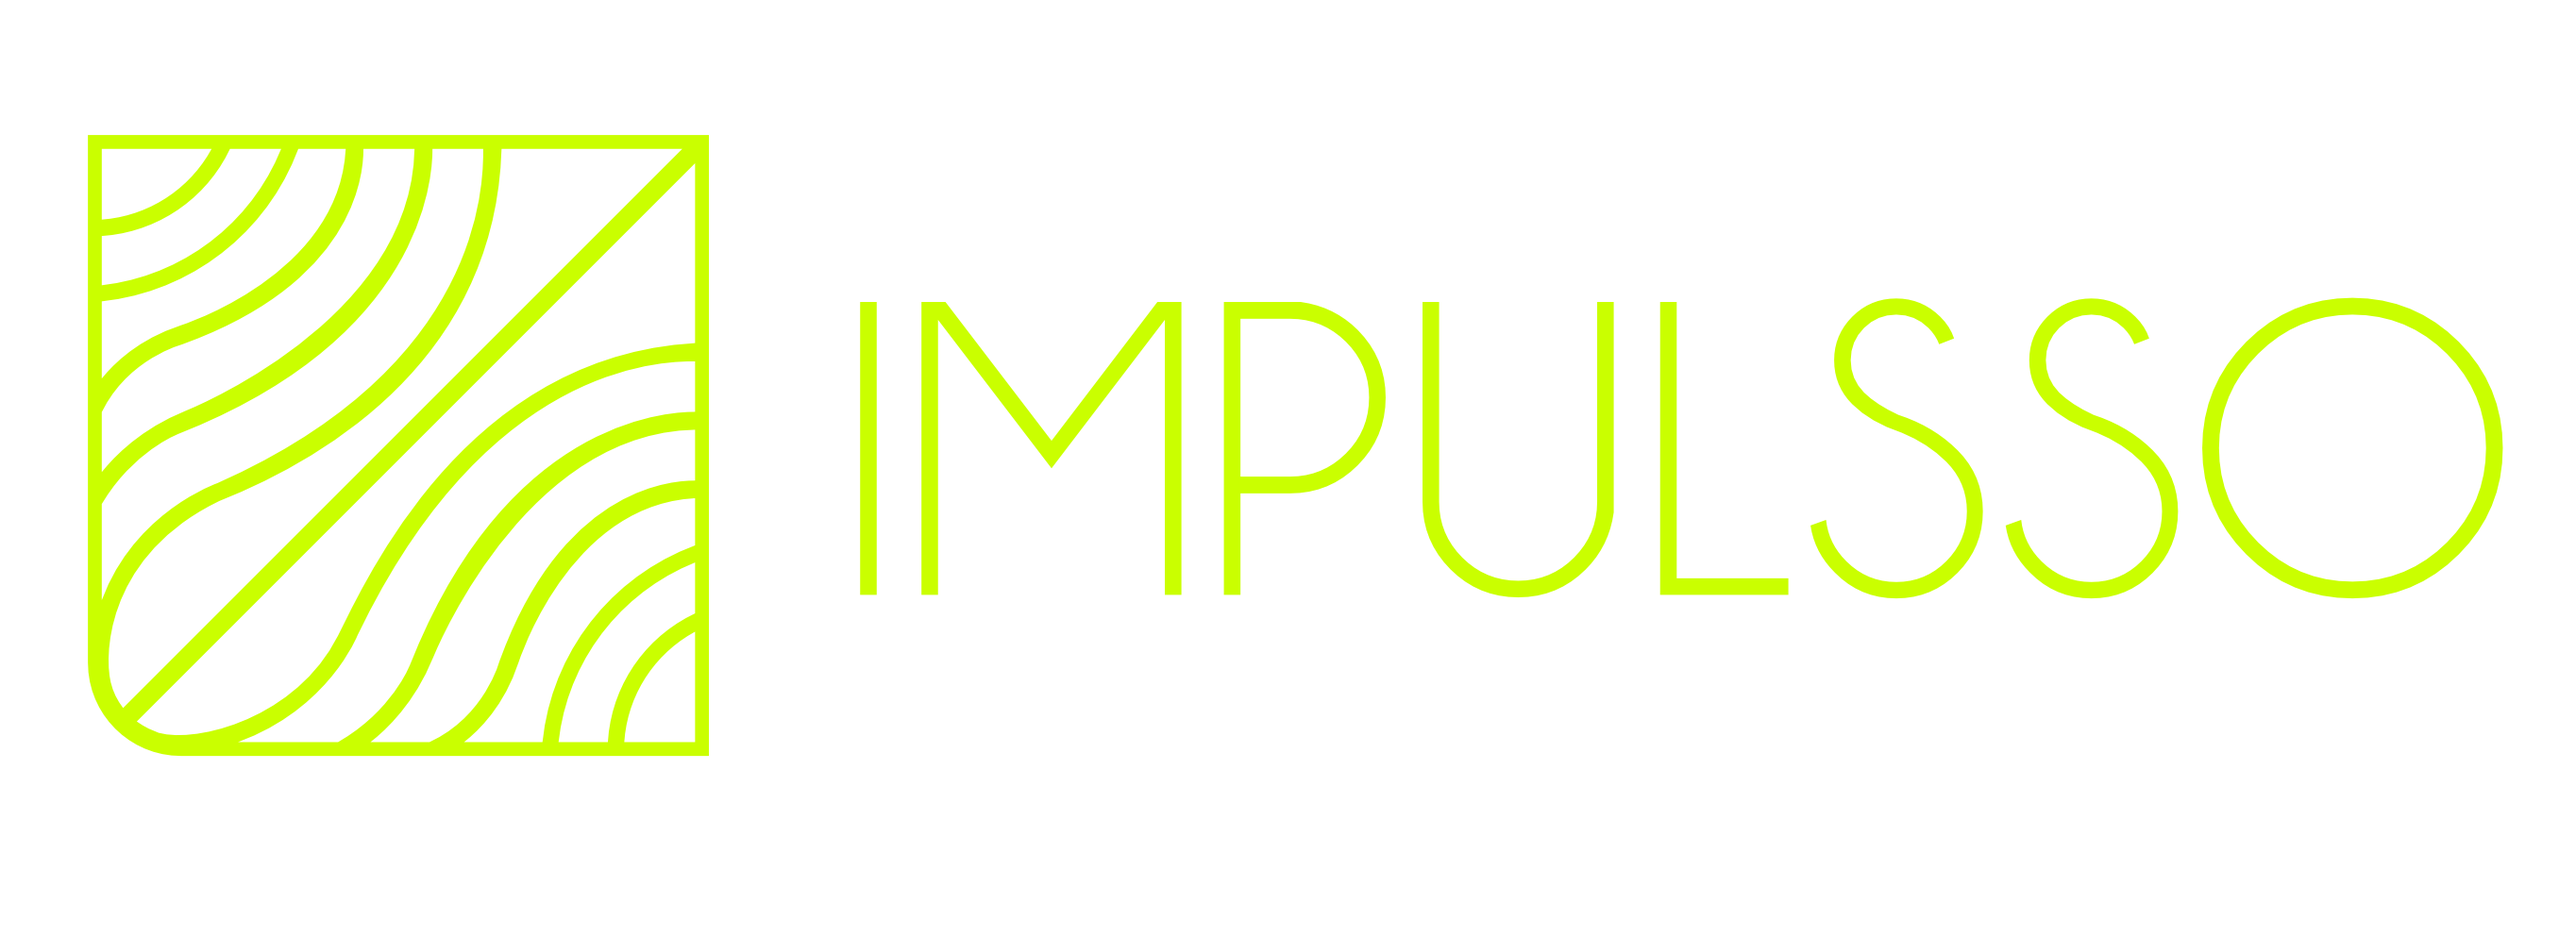
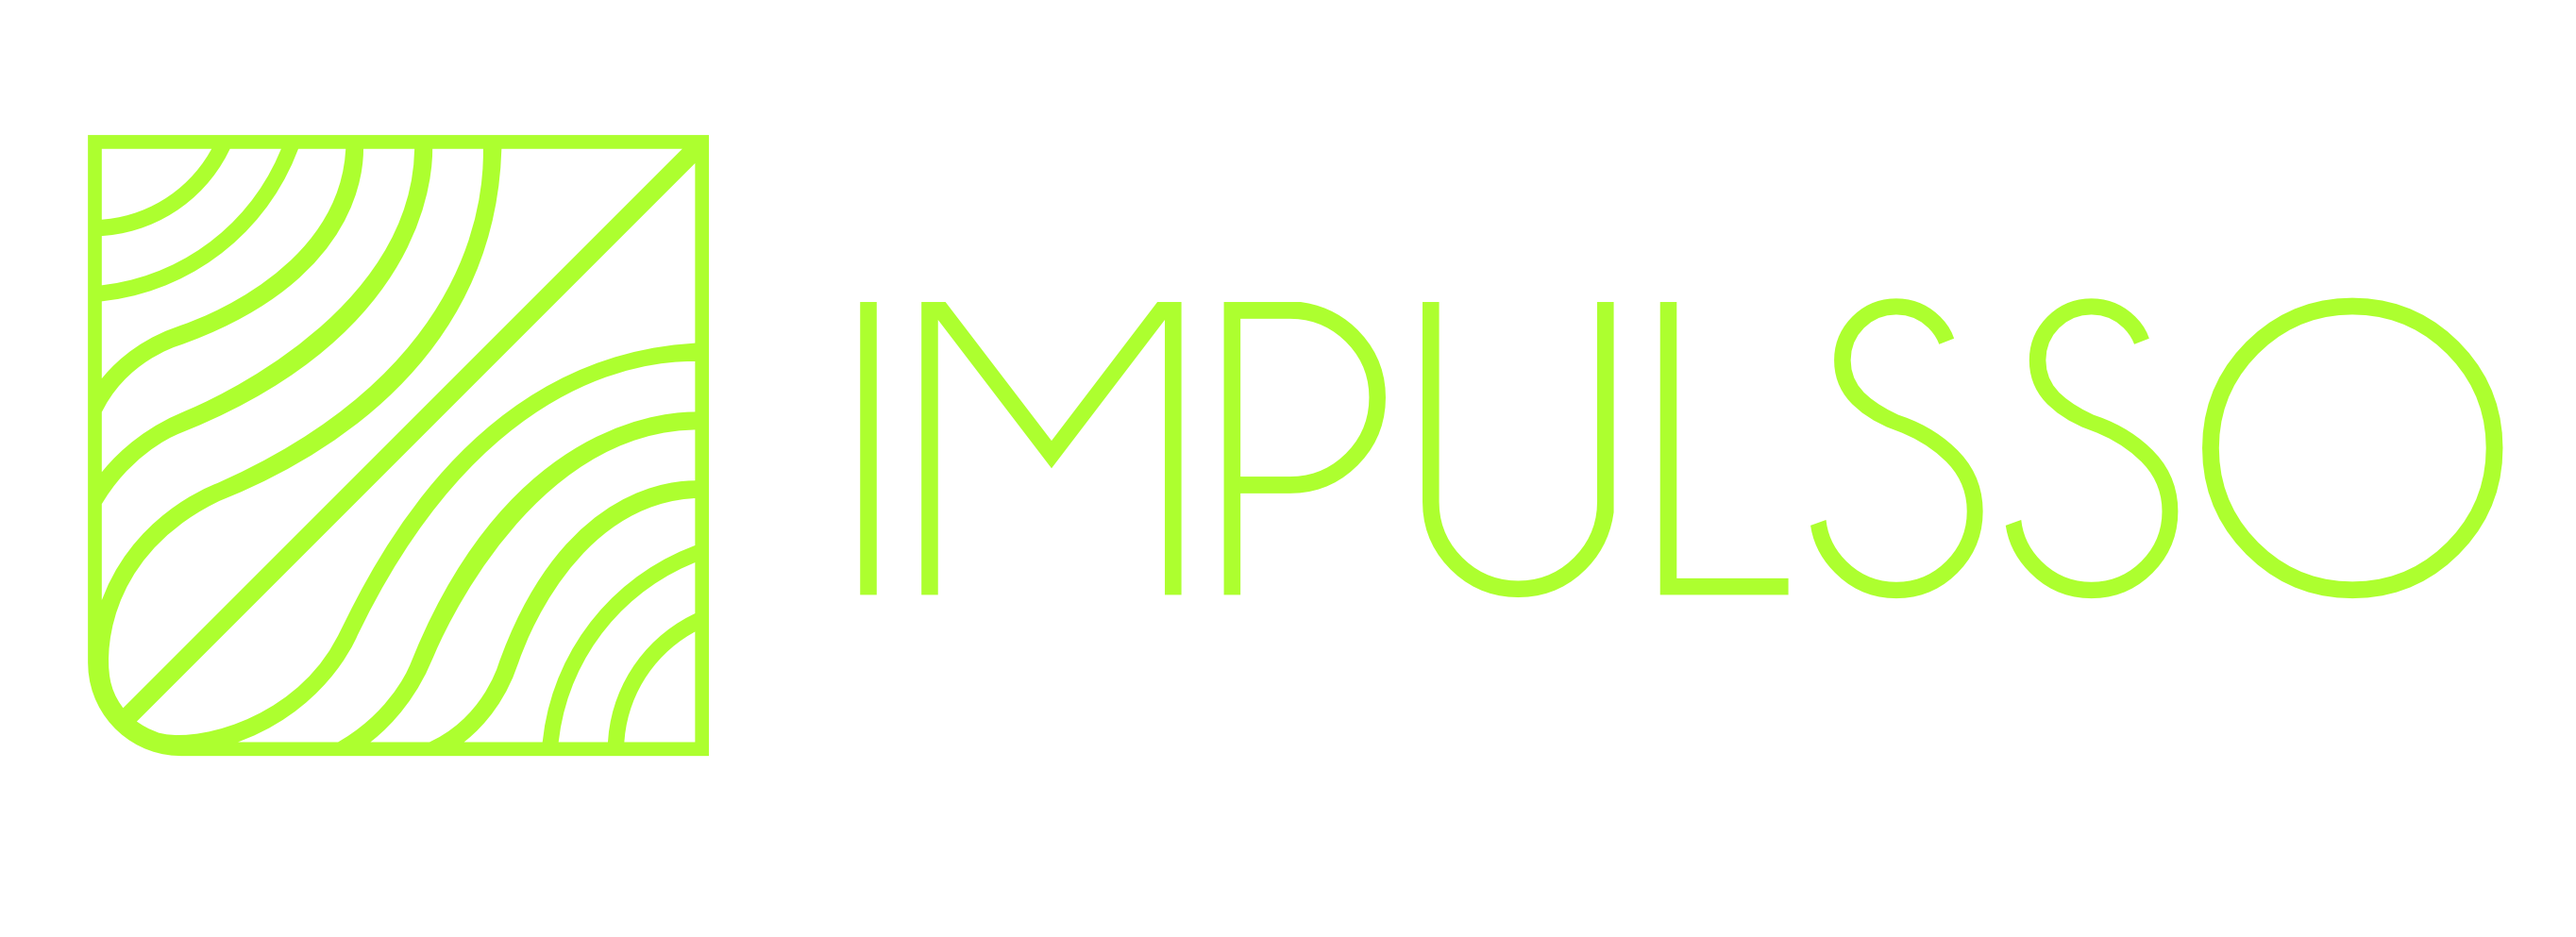
UPDATE-18jul23

diff --git a/index.html b/index.html
@@ -38,7 +38,7 @@
     </header>
 
 
-    <div class="row col-12 mx-auto mt-4">
+    <div class="row col-12 mx-auto">
         <aside class="col-12 col-md-3 WhatDoNWho"> 
             
             <div>
@@ -59,6 +59,27 @@
             </div>
         </section>
     </div>
+
+    <footer class="row d-flex footer-space mb-4 rounded-bottom-5 align-items-center">
+        <!-- Contact Links -->
+        <div class="col-12 col-md-4">
+            <ul class="text-white">
+                <li>Aviso de privacidad</li>
+                <li>Terminos y condiciones de uso</li>
+                <li>Preguntas frecuentes</li>
+                <li>Contactanos</li>
+            </ul>
+
+        </div>
+        <!-- Agreement links -->
+        <div class="col-12 col-md-4">
+
+        </div>
+        <!-- Designer sign-->
+        <div class="col-12 col-md-4">
+
+        </div>
+    </footer>
     
     
 

diff --git a/CSS/impulsso.css b/CSS/impulsso.css
@@ -9,12 +9,11 @@
     font-family: Arial, Helvetica, sans-serif;
     font-weight: 200;
     font-size: medium;
-    color: cornsilk;
+    color: greenyellow;
 }
 .WhatDoNWho{
-    background-color: rgba(42, 42, 42, 0.4);
     filter: blur(0.2);
-    height: 40em;
+    height: 50em;
 }
 .bgmain {
     background-image: url(/IMG/Brand-texture.png);
@@ -26,4 +25,11 @@
 
 .logo {
     height: 72px;
+}
+footer {
+    height: 250px;
+}
+.footer-space{
+    background-color: darkgray;
+
 }
